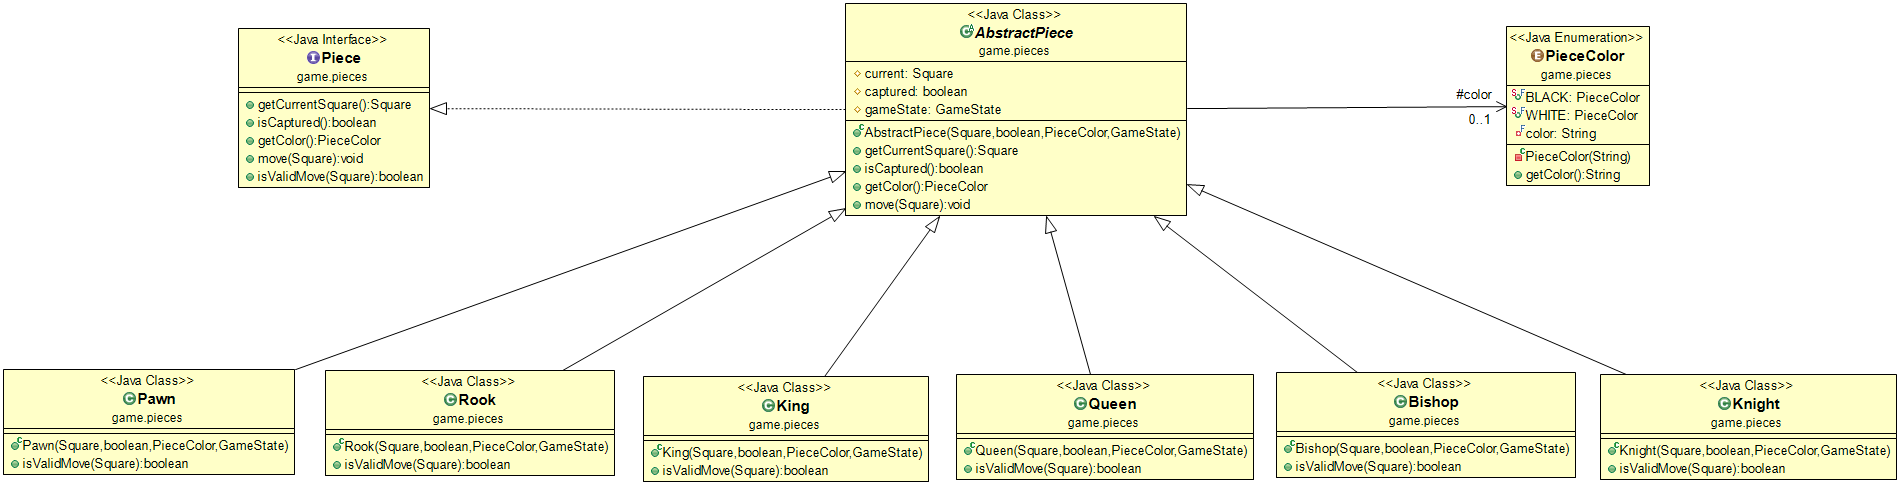
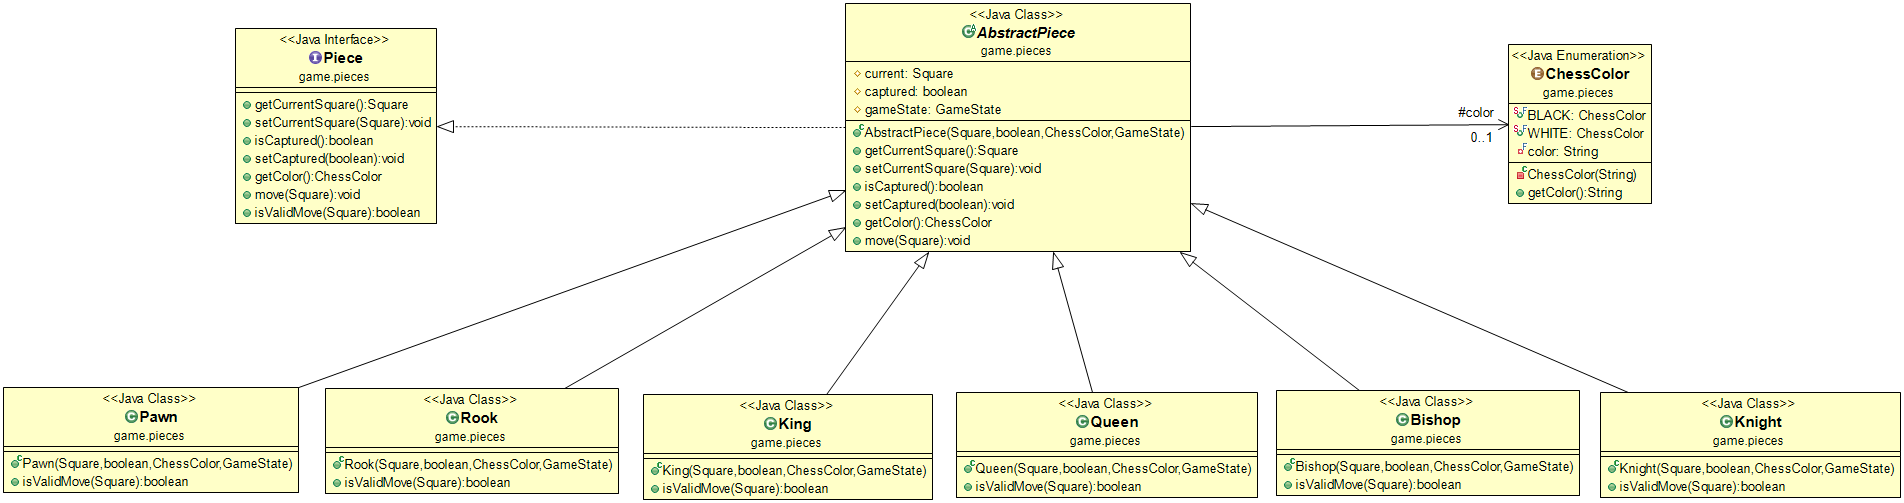
2018-03-24

diff --git a/src/game/GameState.java b/src/game/GameState.java
@@ -3,6 +3,8 @@ package game;
 import java.util.HashMap;
 import java.util.Map;
 
+import game.pieces.ChessColor;
+import game.pieces.King;
 import game.pieces.Piece;
 
 public class GameState {
@@ -16,11 +18,19 @@ public class GameState {
 	public GameState(Map<Square, Piece> chessBoard) {
 		this.chessBoard = chessBoard;
 	}
-	
+
+	/*
+	 * we make a copy from the chessboard, but we will NOT copy the pieces!
+	 */
+
+	public GameState(GameState state) {
+		this(new HashMap<>(state.getChessBoard()));
+	}
+
 	public Map<Square, Piece> getChessBoard() {
 		return chessBoard;
 	}
-	
+
 	public Piece getByPosition(Position position) {
 		Square fromSquare = Square.of(position);
 		return chessBoard.get(fromSquare);
@@ -29,6 +39,40 @@ public class GameState {
 	@Override
 	public String toString() {
 		return null;
+	}
+
+	public boolean isInCheck(ChessColor color) {
+		for (Map.Entry<Square, Piece> entry : chessBoard.entrySet()) {
+			Piece piece = entry.getValue();
+			if (piece.getColor() != color) {
+				Position to = getKing(color);
+				if (piece.isValidMove(Square.of(to))) {
+					return true;
+				}
+			}
+		}
+		return false;
+	}
+
+	private Position getKing(ChessColor color) {
+		for (Map.Entry<Square, Piece> entry : chessBoard.entrySet()) {
+			Piece piece = entry.getValue();
+			if (piece instanceof King && piece.getColor().equals(color)) {
+				return entry.getKey().getPosition();
+			}
+		}
+		throw new IllegalStateException("King for player " + color + " could not be found.");
+	}
+
+	public void executeMove(Move move) {
+		Square fromSquare = Square.of(move.getFrom());
+		Piece fromPiece = chessBoard.get(fromSquare);
+		Square toSquare = Square.of(move.getTo());
+		Piece toPiece = chessBoard.get(toSquare);
+		if (toPiece != null) {
+			toPiece.setCaptured(true);
+		}
+		fromPiece.setCurrentSquare(toSquare);
 	}
 
 }

diff --git a/src/game/moves/RankAndFileRestricted.java b/src/game/moves/RankAndFileRestricted.java
@@ -5,7 +5,7 @@ import game.Move;
 import game.Position;
 import game.pieces.Piece;
 
-public class RankAndFileRestricted implements MovementRestriction {
+public class RankAndFileRestricted extends AbstractMovesRestriction {
 
 	@Override
 	public boolean isValidMove(GameState state, Move move) {
@@ -17,15 +17,22 @@ public class RankAndFileRestricted implements MovementRestriction {
 		}
 		if (isInSameFile(move)) {
 			if (from.getRank() < to.getRank()) {
-				for (int rank = from.getRank(); rank != to.getRank(); rank++) {
-					
+				for (byte rank = from.getRank(); rank != to.getRank(); rank++) {
+					Piece inTheWay = state.getByPosition(Position.of(from.getFile(), rank));
+					if (inTheWay != null) {
+						return false;
+					}
 				}
 			} else if (from.getRank() > to.getRank()) {
-				for (int rank = from.getRank(); rank != to.getRank(); rank--) {
-
+				for (byte rank = from.getRank(); rank != to.getRank(); rank--) {
+					Piece inTheWay = state.getByPosition(Position.of(from.getFile(), rank));
+					if (inTheWay != null) {
+						return false;
+					}
 				}
 			}
 		}
+		return super.isValidMove(state, move);
 	}
 
 	private boolean isInSameRank(Move move) {

diff --git a/src/game/pieces/AbstractPiece.java b/src/game/pieces/AbstractPiece.java
@@ -7,10 +7,10 @@ public abstract class AbstractPiece implements Piece {
 
 	protected Square current;
 	protected boolean captured;
-	protected PieceColor color;
+	protected final ChessColor color;
 	protected GameState gameState;
 
-	public AbstractPiece(Square current, boolean captured, PieceColor color, GameState gameState) {
+	public AbstractPiece(Square current, boolean captured, ChessColor color, GameState gameState) {
 		this.current = current;
 		this.captured = captured;
 		this.color = color;
@@ -21,14 +21,24 @@ public abstract class AbstractPiece implements Piece {
 	public Square getCurrentSquare() {
 		return current;
 	}
+	
+	@Override
+	public void setCurrentSquare(Square current) {
+		this.current = current;
+	}
 
 	@Override
 	public boolean isCaptured() {
 		return captured;
 	}
+	
+	@Override 
+	public void setCaptured(boolean captured) {
+		this.captured = captured;
+	}
 
 	@Override
-	public PieceColor getColor() {
+	public ChessColor getColor() {
 		return color;
 	}
 

diff --git a/src/game/moves/AbstractMovesRestriction.java b/src/game/moves/AbstractMovesRestriction.java
@@ -1,0 +1,24 @@
+package game.moves;
+
+import game.GameState;
+import game.Move;
+import game.Position;
+import game.pieces.ChessColor;
+import game.pieces.Piece;
+
+public abstract class AbstractMovesRestriction implements MovementRestriction {
+
+	@Override
+	public boolean isValidMove(GameState state, Move move) {
+		GameState virtual = new GameState(state);
+		virtual.executeMove(move);
+		Position from = move.getFrom();
+		Piece fromPiece = state.getByPosition(from);
+		ChessColor color = fromPiece.getColor();
+		if (virtual.isInCheck(color)) {
+			return false;
+		}
+		return true;
+	}
+
+}

diff --git a/src/game/pieces/Bishop.java b/src/game/pieces/Bishop.java
@@ -5,7 +5,7 @@ import game.Square;
 
 public class Bishop extends AbstractPiece {
 
-	public Bishop(Square current, boolean captured, PieceColor color, GameState gameState) {
+	public Bishop(Square current, boolean captured, ChessColor color, GameState gameState) {
 		super(current, captured, color, gameState);
 	}
 

diff --git a/src/game/pieces/Knight.java b/src/game/pieces/Knight.java
@@ -5,7 +5,7 @@ import game.Square;
 
 public class Knight extends AbstractPiece {
 
-	public Knight(Square current, boolean captured, PieceColor color, GameState gameState) {
+	public Knight(Square current, boolean captured, ChessColor color, GameState gameState) {
 		super(current, captured, color, gameState);
 	}
 

diff --git a/src/game/pieces/Queen.java b/src/game/pieces/Queen.java
@@ -5,7 +5,7 @@ import game.Square;
 
 public class Queen extends AbstractPiece {
 
-	public Queen(Square current, boolean captured, PieceColor color, GameState gameState) {
+	public Queen(Square current, boolean captured, ChessColor color, GameState gameState) {
 		super(current, captured, color, gameState);
 	}
 

diff --git a/src/game/pieces/King.java b/src/game/pieces/King.java
@@ -5,7 +5,7 @@ import game.Square;
 
 public class King extends AbstractPiece {
 
-	public King(Square current, boolean captured, PieceColor color, GameState gameState) {
+	public King(Square current, boolean captured, ChessColor color, GameState gameState) {
 		super(current, captured, color, gameState);
 	}
 

diff --git a/src/game/pieces/Pawn.java b/src/game/pieces/Pawn.java
@@ -5,7 +5,7 @@ import game.Square;
 
 public class Pawn extends AbstractPiece {
 
-	public Pawn(Square current, boolean captured, PieceColor color, GameState gameState) {
+	public Pawn(Square current, boolean captured, ChessColor color, GameState gameState) {
 		super(current, captured, color, gameState);
 	}
 

diff --git a/src/game/pieces/Rook.java b/src/game/pieces/Rook.java
@@ -5,7 +5,7 @@ import game.Square;
 
 public class Rook extends AbstractPiece {
 
-	public Rook(Square current, boolean captured, PieceColor color, GameState gameState) {
+	public Rook(Square current, boolean captured, ChessColor color, GameState gameState) {
 		super(current, captured, color, gameState);
 	}
 

diff --git a/src/game/pieces/Piece.java b/src/game/pieces/Piece.java
@@ -5,10 +5,14 @@ import game.Square;
 public interface Piece {
 
 	Square getCurrentSquare();
+	
+	void setCurrentSquare(Square position);
 
 	boolean isCaptured();
+	
+	void setCaptured(boolean captured);
 
-	PieceColor getColor();
+	ChessColor getColor();
 
 	void move(Square square);
 

diff --git a/src/game/pieces/ChessColor.java b/src/game/pieces/ChessColor.java
@@ -1,11 +1,11 @@
 package game.pieces;
 
-public enum PieceColor {
+public enum ChessColor {
 	BLACK("Black"), WHITE("White");
 
 	private final String color;
 
-	private PieceColor(String color) {
+	private ChessColor(String color) {
 		this.color = color;
 	}
 
